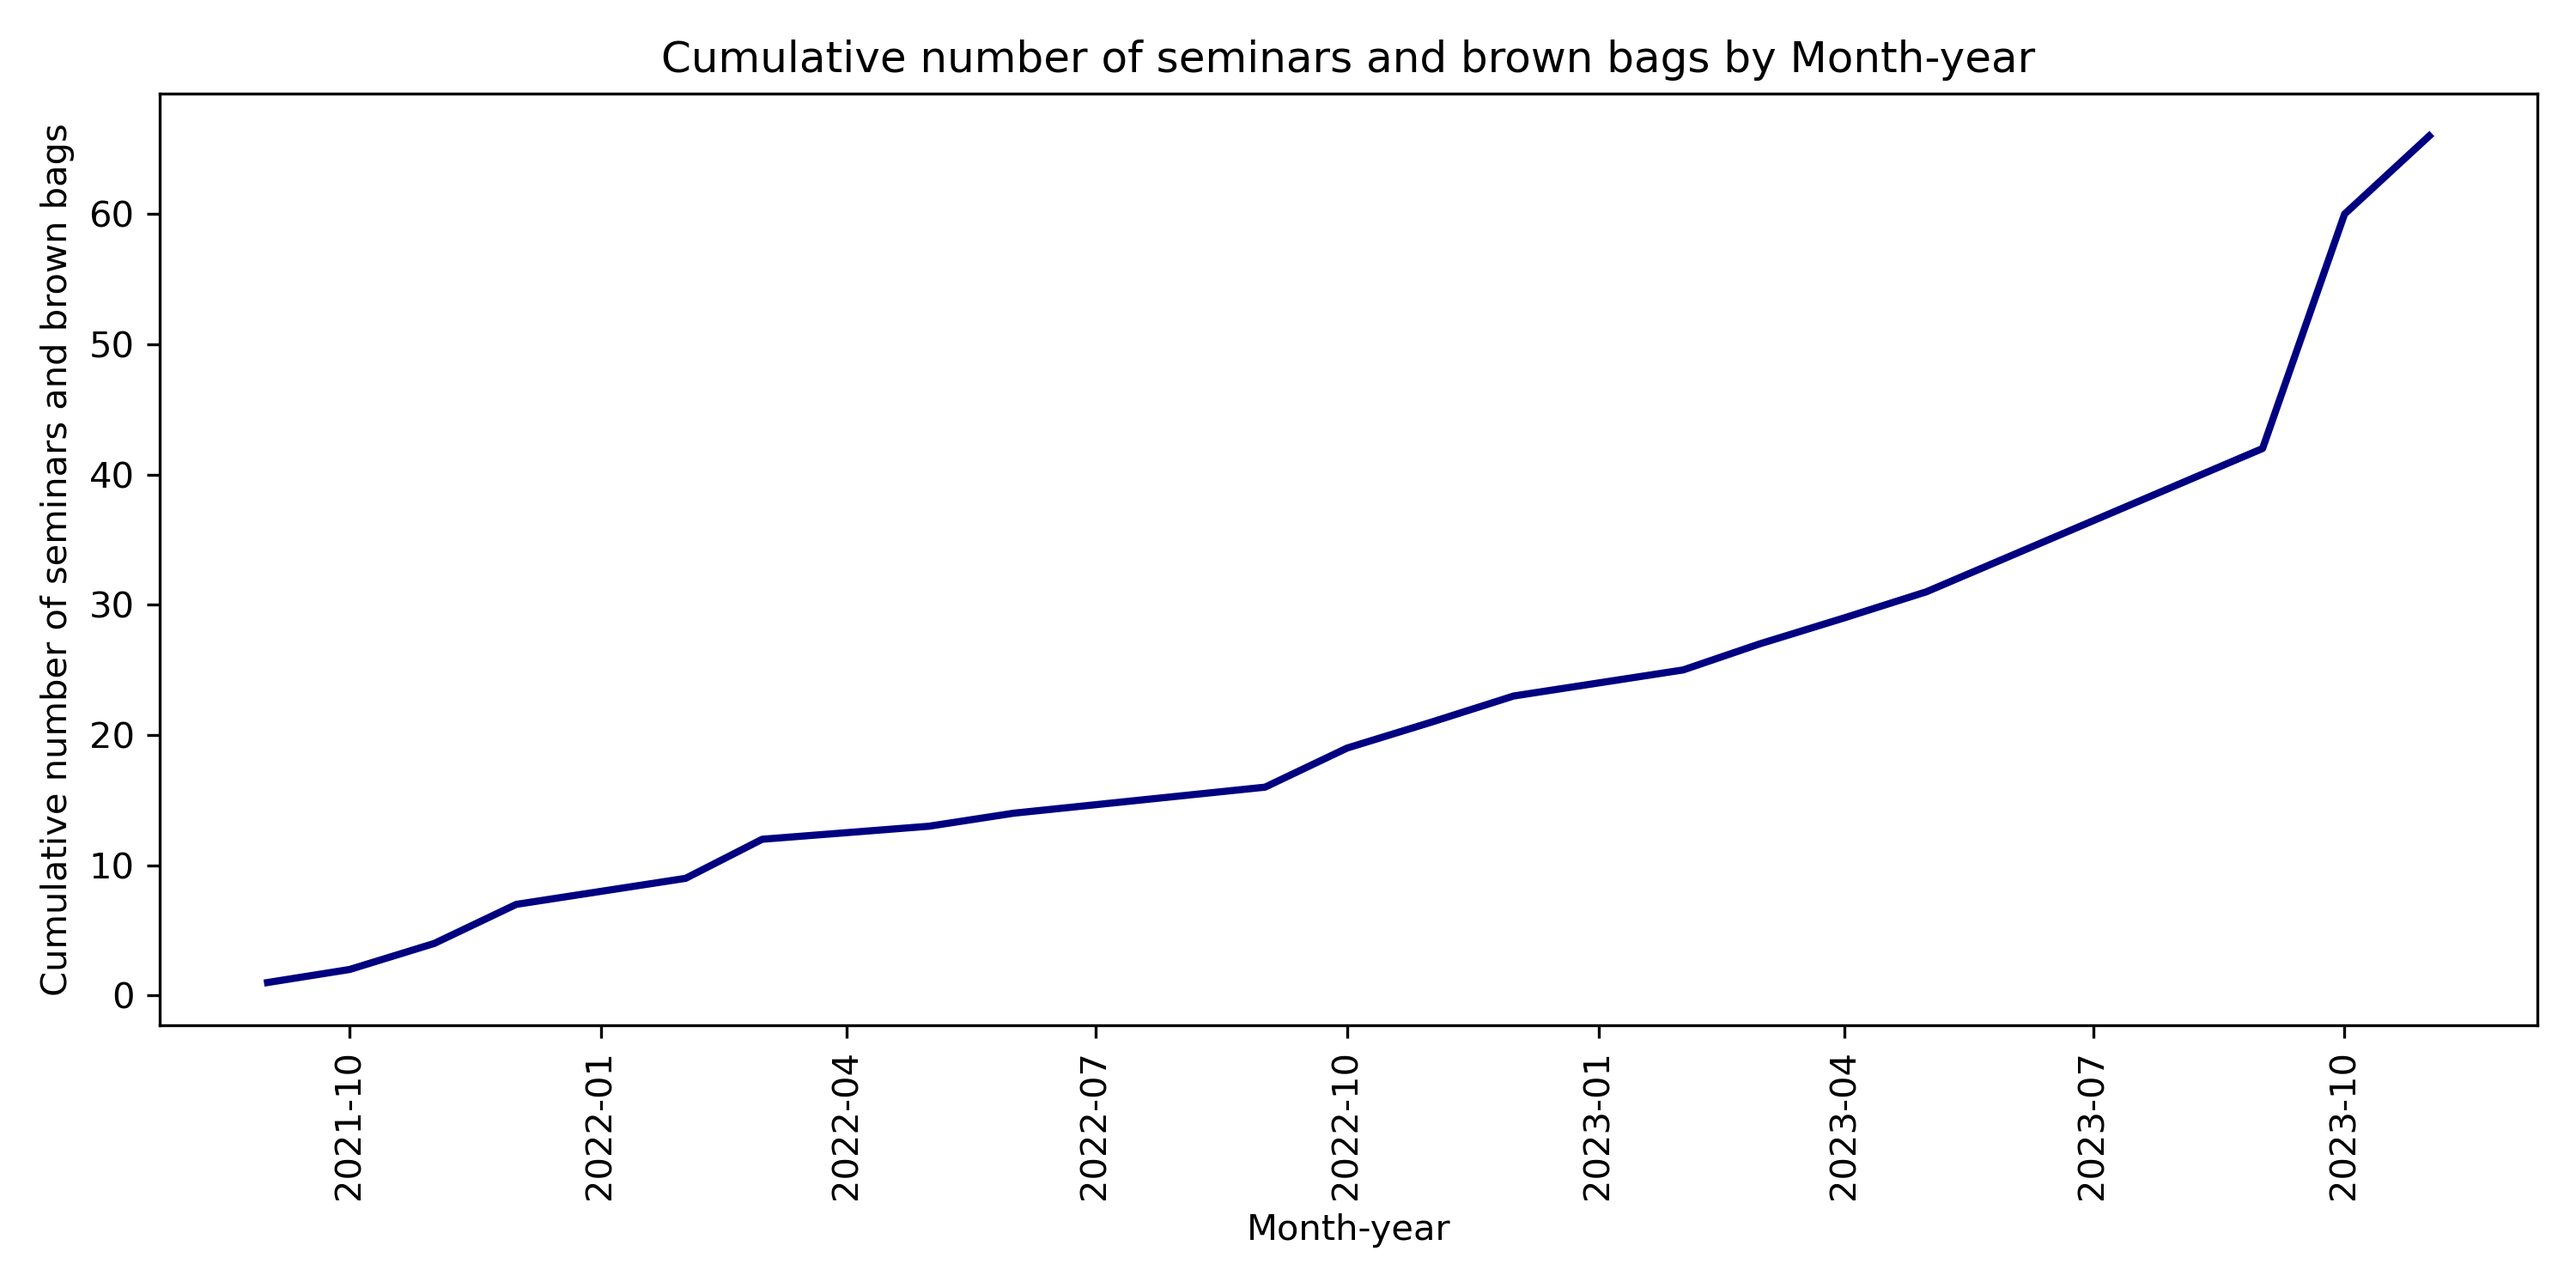
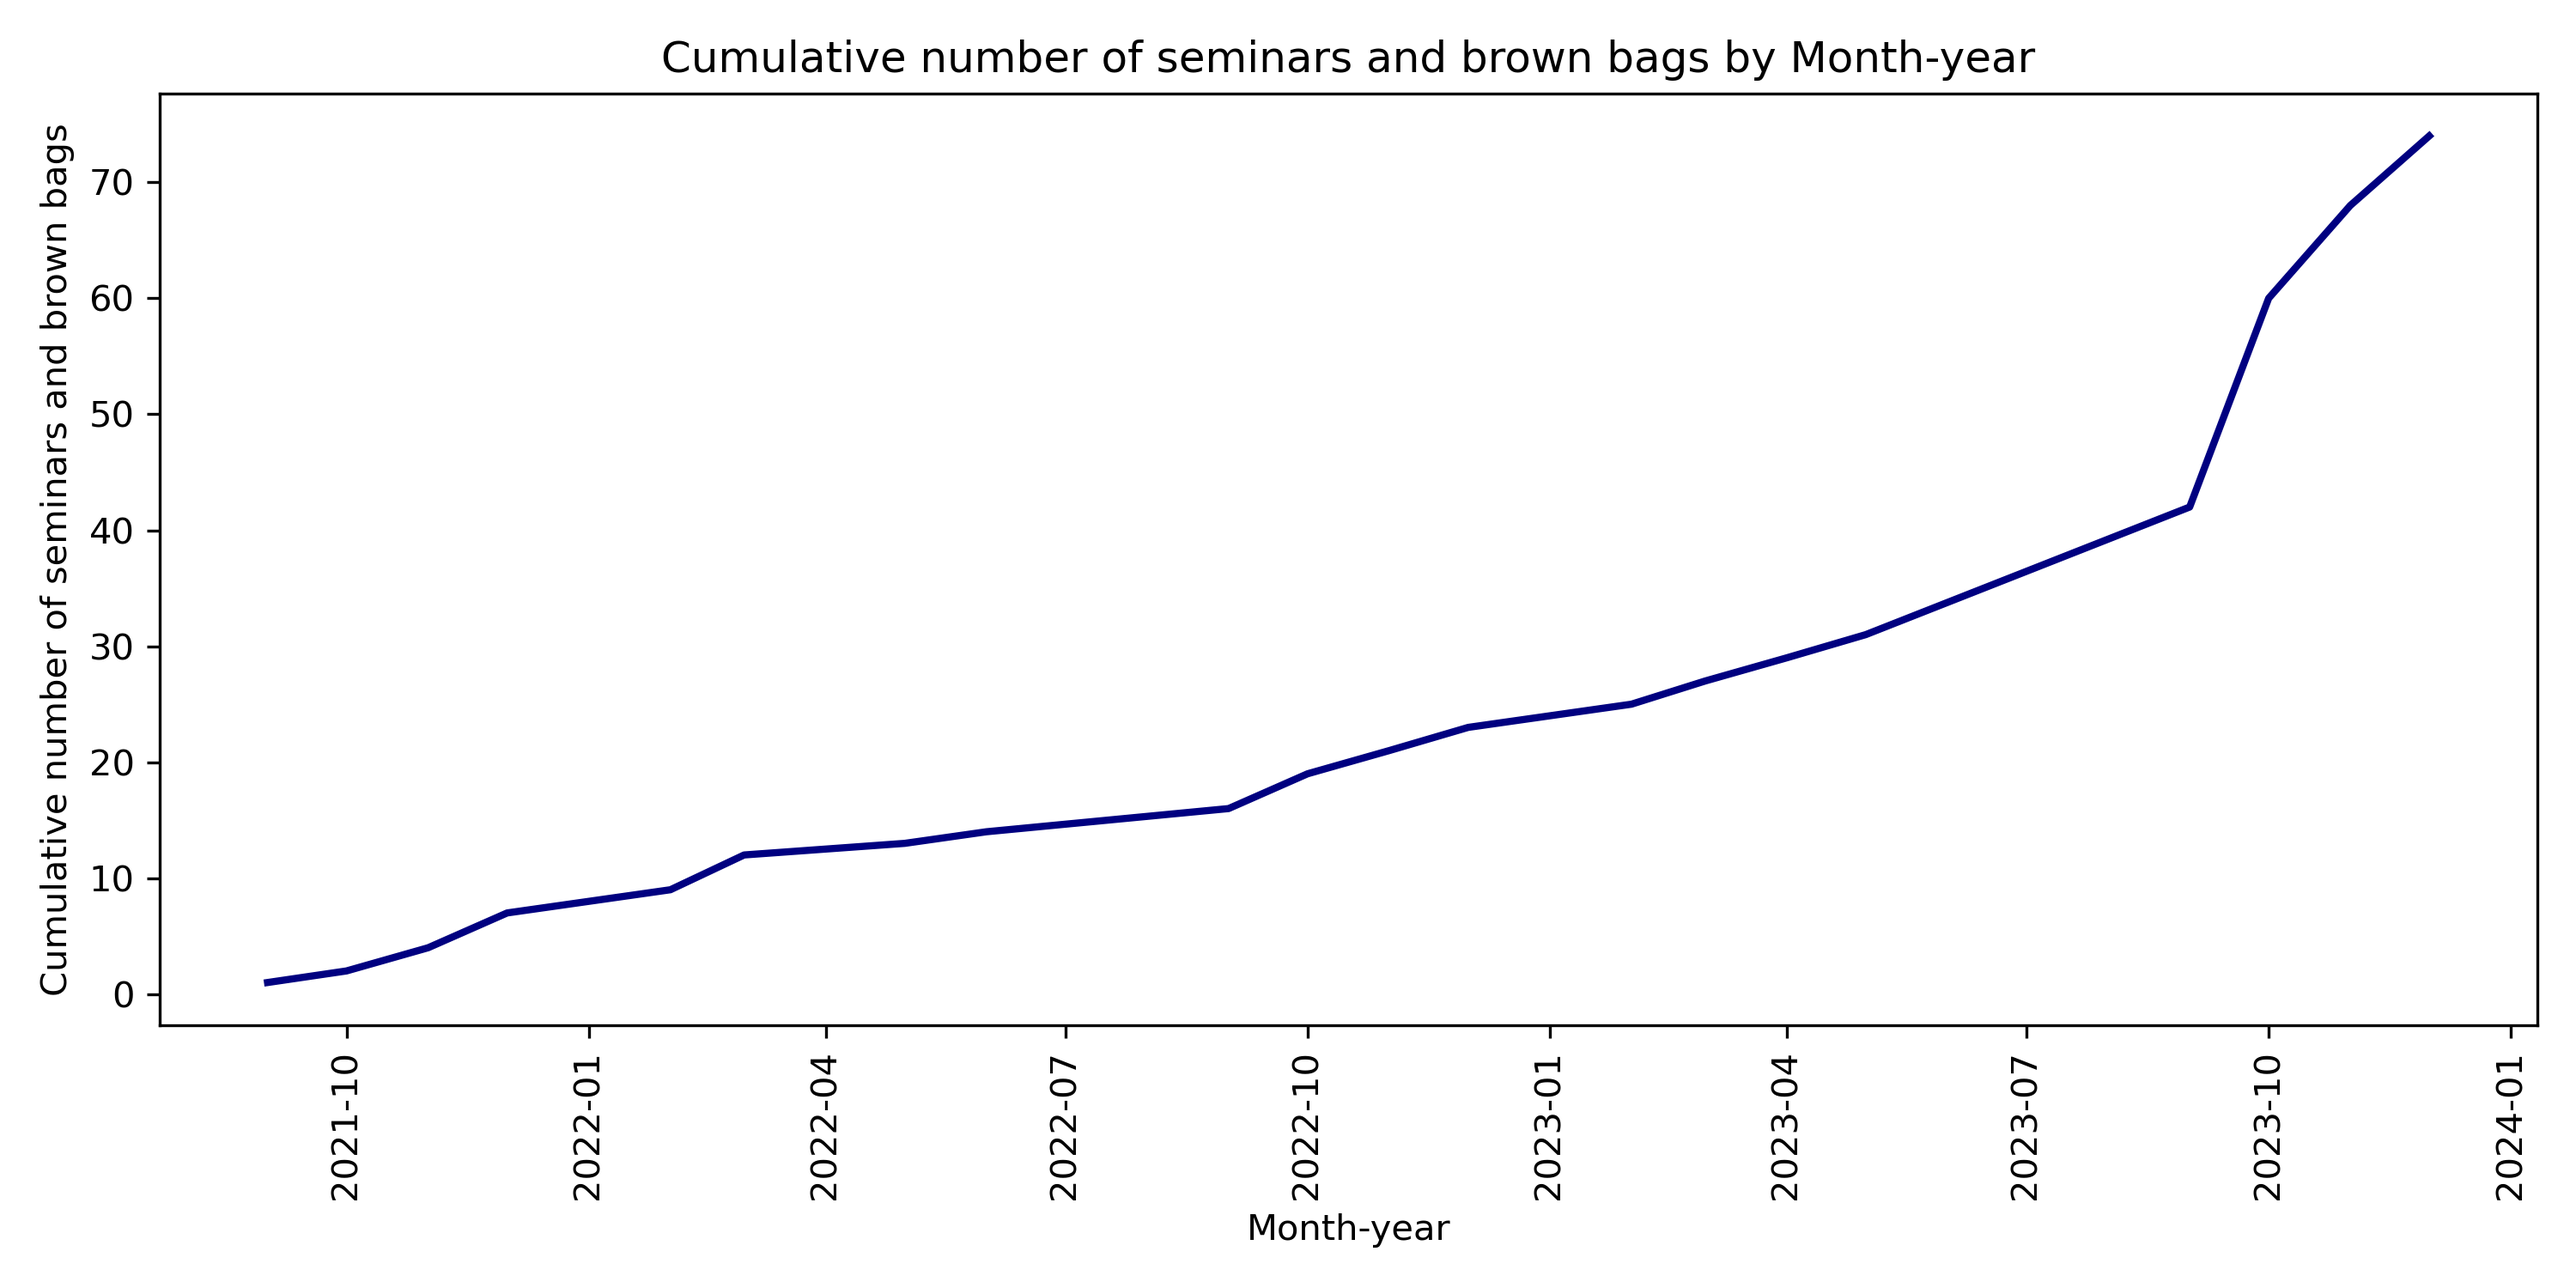
update seminar plots, add gender pie chart

diff --git a/aboutme.md b/aboutme.md
@@ -21,11 +21,12 @@ Here's what this page contains right now:
 Have you ever wondered exactly how many presentations _I_ have attended since starting my PhD?
 I sure have. And I've done something about it.
 
-Last updated 2023-11–19: Here are some plots for the seminars and brown bags that I have attended.
+Last updated 2023-12–07: Here are some plots for the seminars and brown bags that I have attended.
 
 <img src = "/assets/img/blog-seminar-participation/Cumulative-number-of-seminars-and-brown-bags-by-Month-year.png" width ="100%"/>
 <img src = "/assets/img/blog-seminar-participation/Total-number-of-seminars-per-year.png" width ="100%"/>
 <img src = "/assets/img/blog-seminar-participation/Total-number-of-seminars-per-academic-year.png" width ="100%"/>
+<img src = "/assets/img/blog-seminar-participation/Unique-presenters-by-gender.png" width ="100%"/>
 <img src = "/assets/img/blog-seminar-participation/Total-number-of-seminars-and-brown-bags-pie-chart.png" width ="100%"/>
 <img src = "/assets/img/blog-seminar-participation/Total-number-of-seminars-and-brown-bags-per-host-institution-pie-chart.png" width ="100%"/>
 <img src = "/assets/img/blog-seminar-participation/Total-number-of-seminars-and-brown-bags-per-academic-position.png" width ="100%"/>
